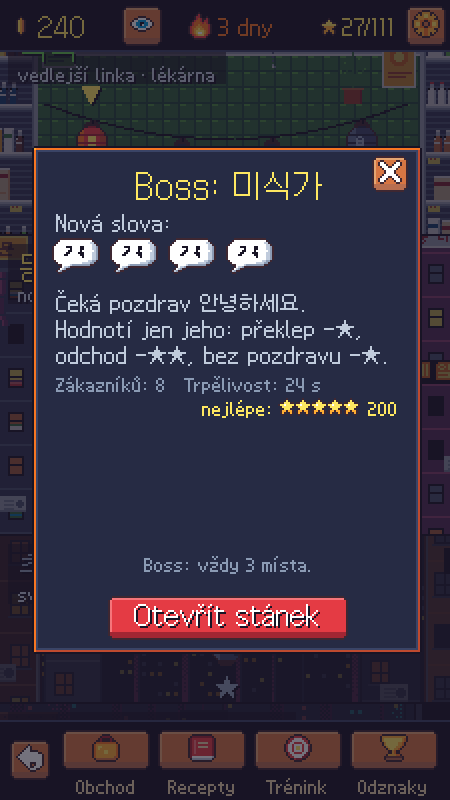
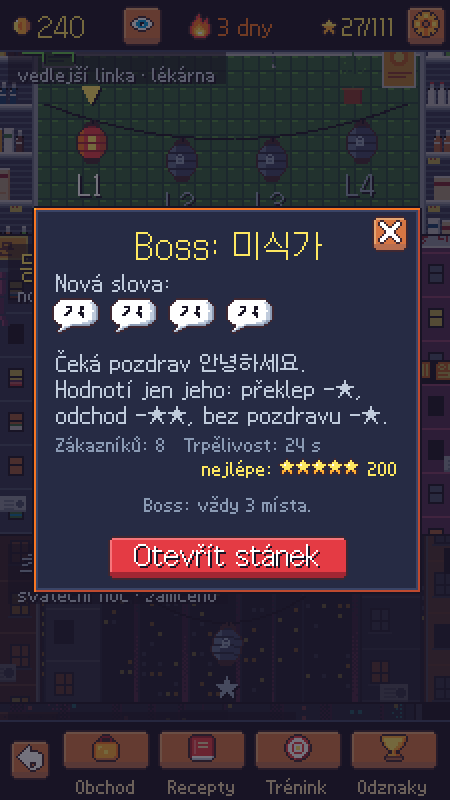
Penalty points fixes: typos in an alternative answer count again (blame via orderTargets, typoToken picks the answer being typed), boss nights show no point floats for generic customers, boss Map popup sized to its content

diff --git a/src/scenes/Night.ts b/src/scenes/Night.ts
@@ -14,7 +14,7 @@ import { hintLevel } from '../logic/srs';
 import { recordMissed, recordMistake, recordServe, rng } from '../logic/srs';
 import { Bubble } from '../game/bubble';
 import { playStory } from '../game/dialogue';
-import { joinTokens, makeOrder, orderTargets, tokenAt, type Kind, type Order } from '../game/orders';
+import { joinTokens, makeOrder, orderTargets, typoToken, type Kind, type Order } from '../game/orders';
 import { G, WORDS, iconTex, word } from '../game/state';
 import { dailyPool, daySeed, recordDaily } from '../logic/daily';
 import { dayKey } from '../logic/save';
@@ -684,8 +684,8 @@ export class NightScene extends Phaser.Scene {
   private mistake(text: string) {
     // blame the orders that matched what was typed just before
     const prev = [...text].slice(0, -1).join('');
-    const prevMatch = prev ? matchAgainst(prev, this.waiting(), (c) => c.order!.target).prefix : [];
-    const blamed = prevMatch.length ? prevMatch : [];
+    // alts count too: a typo in an alternative answer is a typo on that order
+    const blamed = prev ? matchAgainst(prev, this.waiting(), (c) => orderTargets(c.order!)).prefix : [];
     const greetPrefix = !!prev && matchPolite(prev, [], () => '', this.activeGreetings()).greetPrefix;
     // orphan text: its order vanished (김 대리, a walk-out, "Tak nic…", the runoff) – it can't be finished, clear it quietly
     if (prev && !greetPrefix && !matchAgainst(prev, this.waiting(), (c) => orderTargets(c.order!)).prefix.length) {
@@ -707,13 +707,13 @@ export class NightScene extends Phaser.Scene {
     if (counts) {
       this.mistakes++;
       this.points += TYPO_POINTS;
-      if (this.starPips) floatText(this, this.starPips.x, 26, '−1', C.red);
+      // boss nights rate only the boss: no point float there
+      if (this.starPips && !this.def.boss) floatText(this, this.starPips.x, 26, '−1', C.red);
     }
     for (const c of blamed) {
       const o = c.order!;
-      const ti = tokenAt(o, text);
+      const { i: ti, id } = typoToken(o, text);
       o.mistakes[ti] = true;
-      const id = o.tokens[ti].id;
       G.setStat(id, recordMistake(G.stat(id)));
       this.trouble.set(id, (this.trouble.get(id) ?? 0) + 1);
       c.bubble!.shake();
@@ -970,7 +970,7 @@ export class NightScene extends Phaser.Scene {
     this.updateProgress();
     G.audio.play('angry');
     c.sprite.play(`${c.key}:${c.kind === 'nabi' ? 'walk' : 'angry'}`);
-    floatText(this, c.sprite.x, c.sprite.y - 46, c.kind === 'boss' ? '−★★' : `hmpf! −${WALKOUT_POINTS}`, C.red);
+    floatText(this, c.sprite.x, c.sprite.y - 46, c.kind === 'boss' ? '−★★' : this.def.boss ? 'hmpf!' : `hmpf! −${WALKOUT_POINTS}`, C.red);
     if (c.kind === 'boss') this.critic.walkouts++;
     this.refreshStars();
     if (c.kind === 'boss') {

diff --git a/src/scenes/Map.ts b/src/scenes/Map.ts
@@ -245,16 +245,22 @@ export class MapScene extends Phaser.Scene {
     const def = nightDef(n);
     const boss = !!def.boss;
     const pw = W - 30;
-    // boss: the rule text (s, wrapped) is measured first so the panel can grow by its extra height
+    // boss: the rule text (s, wrapped) is measured first so the panel fits it
     const bossRule = boss ? txt(this, 12, 0, 'Čeká pozdrav 안녕하세요. Hodnotí jen jeho: překlep −★, odchod −★★, bez pozdravu −★.', { size: 's', color: C.light, wrap: pw - 24 }) : null;
-    let ph = (def.newWords.length > Math.max(5, Math.floor((W - 46) / 26)) ? 222 : 200) + (boss ? 0 : 24);
-    if (bossRule) ph += Math.max(0, bossRule.height + 4 - (def.newWords.length ? 0 : 26));
+    let ph = (def.newWords.length > Math.max(5, Math.floor((W - 46) / 26)) ? 222 : 200) + 24;
     // 'Zákazníků …' and 'nejlépe …' share a row when they fit (216 px: the best line gets its own row)
     const info = txt(this, 12, 0, `Zákazníků: ${def.customers}   Trpělivost: ${def.patience} s`, { size: 'xs', color: C.grey });
     const rec = G.track().nights[n];
     const best = rec ? this.bestLine(rec.stars, rec.bestCoins, !!rec.perfect) : null;
     const bestRow = !!best && info.width + 8 + best.w > pw - 24;
     if (bestRow) ph += 12;
+    if (bossRule) {
+      // boss: size the panel to its content (title, jamo, words, rule, info rows) + the bottom line and button
+      const per = Math.max(5, Math.floor((pw - 16) / 26));
+      const jamoH = def.newJamo.length ? (def.newJamo.length > 7 ? 28 : 16) : 0;
+      const wordsH = def.newWords.length ? (def.newWords.length > per ? 64 : 40) : 0;
+      ph = 32 + jamoH + wordsH + bossRule.height + 4 + 12 + (bestRow ? 12 : 0) + 56;
+    }
     const c = this.add.container(15, Math.round(H / 2 - ph / 2)).setDepth(DEPTH.overlay);
     const shade = this.add.rectangle(-15, -c.y, W, H, 0x181425, 0.6).setOrigin(0, 0).setInteractive();
     shade.on('pointerup', () => { c.destroy(); this.popup = undefined; });

diff --git a/tests/orders.test.ts b/tests/orders.test.ts
@@ -1,0 +1,24 @@
+import { describe, expect, it } from 'vitest';
+import { joinTokens, tokenAt, typoToken, type Order } from '../src/game/orders';
+
+const tok = (id: string, ko: string) => ({ id, ko });
+
+function order(answers: { id: string; ko: string }[][]): Order {
+  const [first, ...rest] = answers;
+  return { tokens: first, target: joinTokens(first), alts: rest.length ? rest : undefined, cs: '', icons: [], hinted: false, mistakes: first.map(() => false), kind: 'generic' };
+}
+
+describe('typoToken', () => {
+  it('blames the hint answer token', () => {
+    const o = order([[tok('a', '빨간'), tok('b', '모자')]]);
+    expect(typoToken(o, '빨간 모ㅋ')).toEqual({ i: 1, id: 'b' });
+    expect(tokenAt(o, '빨ㅋ')).toBe(0);
+  });
+
+  it('blames the alternative answer the player was typing', () => {
+    const o = order([[tok('bus', '버스')], [tok('train', '기차')]]);
+    expect(typoToken(o, '기ㅋ')).toEqual({ i: 0, id: 'train' });
+    const o2 = order([[tok('x', '머리')], [tok('y', '배'), tok('z', '아파요')]]);
+    expect(typoToken(o2, '배 아ㅋ')).toEqual({ i: 1, id: 'z' });
+  });
+});

diff --git a/src/game/orders.ts b/src/game/orders.ts
@@ -284,11 +284,21 @@ export function listenKoreanHint(o: Order): { text: string; alpha: number } {
 
 /** Which token was being typed when the jamo at `pos` (0-based) went wrong. */
 export function tokenAt(o: Order, typed: string): number {
-  const pos = matchedJamo(typed, o.target);
-  let acc = 0;
-  for (let i = 0; i < o.tokens.length; i++) {
-    acc += toJamo(o.tokens[i].ko).length;
-    if (pos < acc) return i;
+  return typoToken(o, typed).i;
+}
+
+/** Token where `typed` went wrong, in the answer (hint target or an alt) it follows best. */
+export function typoToken(o: Order, typed: string): { i: number; id: string } {
+  let tokens = o.tokens;
+  let pos = matchedJamo(typed, o.target);
+  for (const alt of o.alts ?? []) {
+    const p = matchedJamo(typed, joinTokens(alt));
+    if (p > pos) { tokens = alt; pos = p; }
   }
-  return o.tokens.length - 1;
+  let acc = 0;
+  for (let i = 0; i < tokens.length; i++) {
+    acc += toJamo(tokens[i].ko).length;
+    if (pos < acc) return { i, id: tokens[i].id };
+  }
+  return { i: tokens.length - 1, id: tokens[tokens.length - 1].id };
 }
